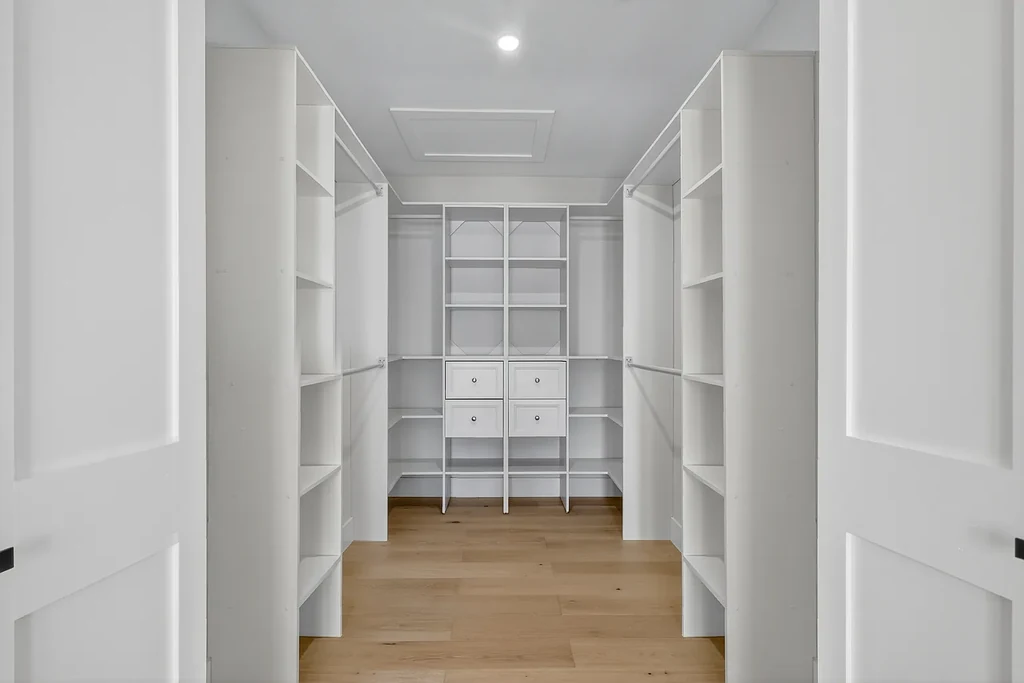
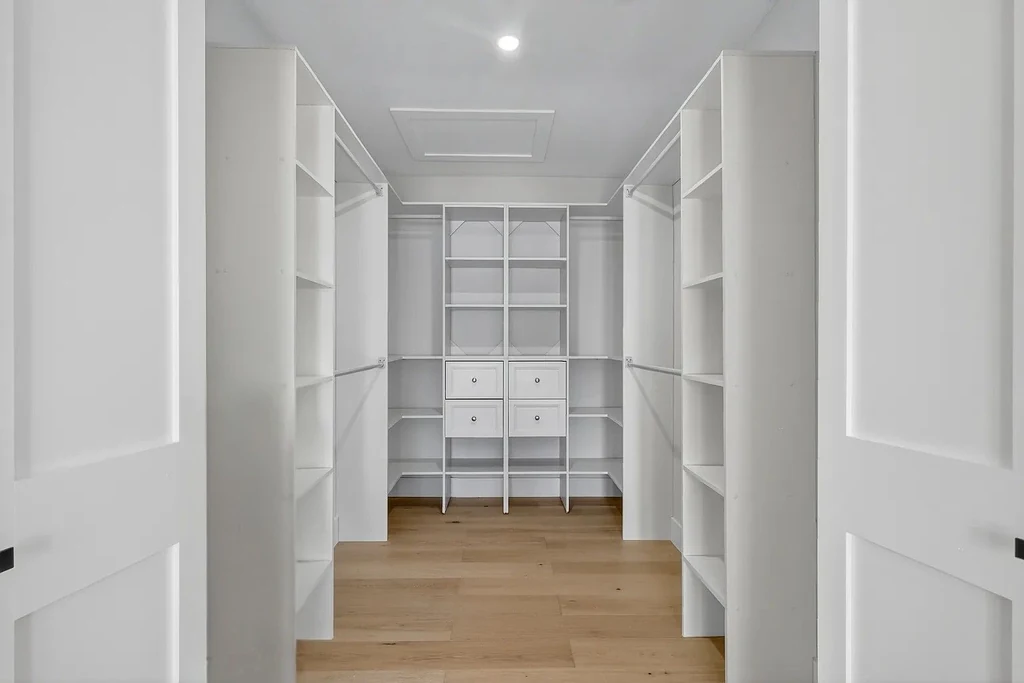
Add files via upload

Changed region(s): [[0.25, 0.5227, 0.3438, 1.0]]

diff --git a/index.html b/index.html
@@ -720,7 +720,7 @@
 <!-- ABOUT -->
 <section class="about" id="about">
   <div class="about-img">
-    <img src="about-tile-shower.jpg" alt="Luxury marble shower tile installation in a St. Petersburg, FL bathroom" loading="lazy"/>
+    <img src="backsplash-installation-treasure-island-fl-1.webp" alt="Kitchen tile backsplash installation with gold faucet and window in Treasure Island, FL" loading="lazy"/>
   </div>
   <div class="about-text">
     <p class="section-label">About Us</p>
@@ -744,7 +744,7 @@
     <div class="gallery-item"><img src="cabinet-_-backsplash-installation-clearwaterbeach-fl.jpg" alt="Custom shaker kitchen cabinet and marble-look tile backsplash installation with island in Clearwater Beach, FL" loading="lazy"/></div>
     <div class="gallery-item"><img src="porcelain-tile-flooring-installation-stpetebeach-fl-1.webp" alt="Wood-look porcelain tile flooring installation in an open-concept living area in St. Pete Beach, FL" loading="lazy"/></div>
     <div class="gallery-item"><img src="porcelain-tile-flooring-installation-stpetersburg-fl-4.webp" alt="Wood-look porcelain tile flooring in a two-story great room with staircase in St. Petersburg, FL" loading="lazy"/></div>
-    <div class="gallery-item"><img src="porcelain-tile-flooring-installation-stpetersburg-fl-1.webp" alt="Wood-look porcelain tile flooring installation in a St. Petersburg, FL living room and kitchen" loading="lazy"/></div>
+    <div class="gallery-item"><img src="porcelain-tile-flooring-installation-stpetersburg-fl-1.webp" alt="Wood-look porcelain tile flooring in an open living room with sliding glass doors and water view in St. Petersburg, FL" loading="lazy"/></div>
     <div class="gallery-item"><img src="LVP-flooring-installation-stpetebeach-fl-2.webp" alt="Luxury vinyl plank (LVP) flooring installation in a living and dining area in St. Pete Beach, FL" loading="lazy"/></div>
     <div class="gallery-item"><img src="shower-tile-installation-treasure-island-fl.webp" alt="Onyx-look porcelain shower tile installation with black fixtures in Treasure Island, FL" loading="lazy"/></div>
     <div class="gallery-item"><img src="porcelain-tile-flooring-installation-north_redington_beach-fl-3.webp" alt="Wood-look porcelain tile flooring in an open living room with cathedral ceiling in North Redington Beach, FL" loading="lazy"/></div>